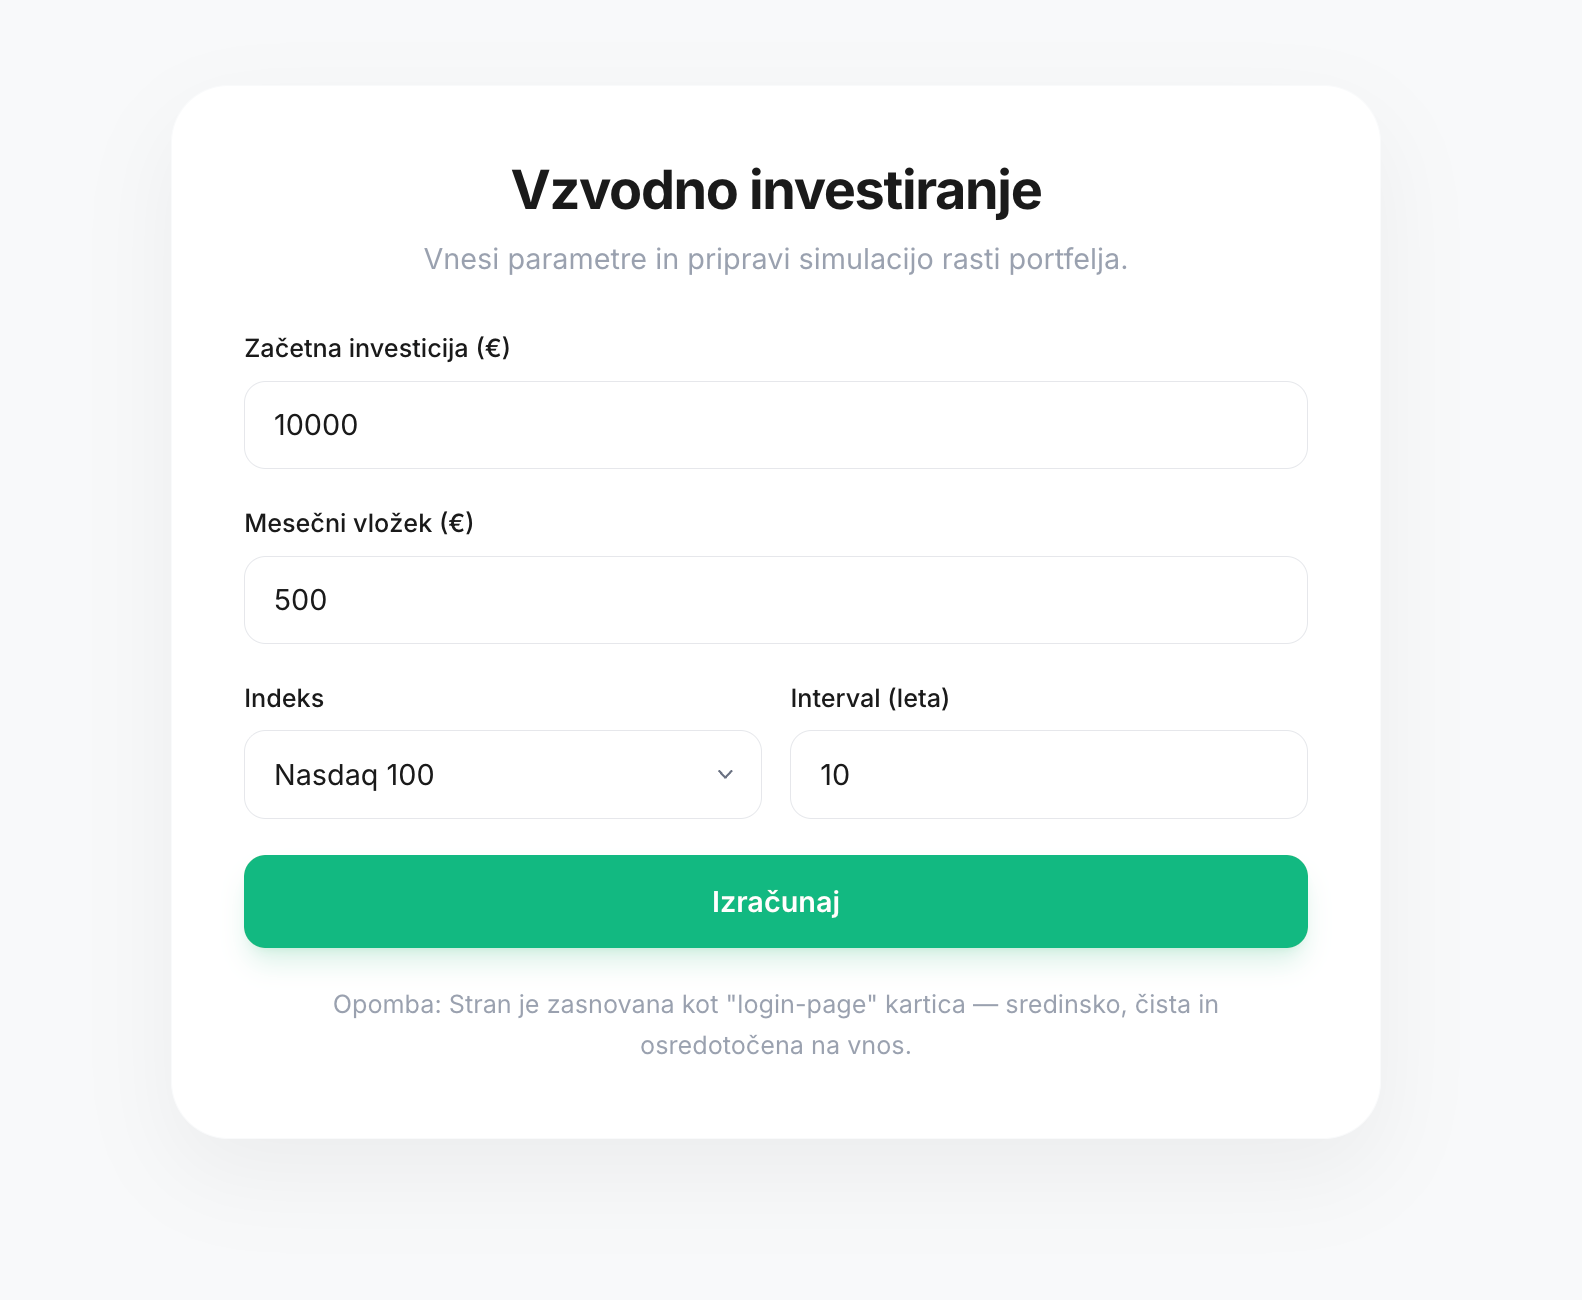
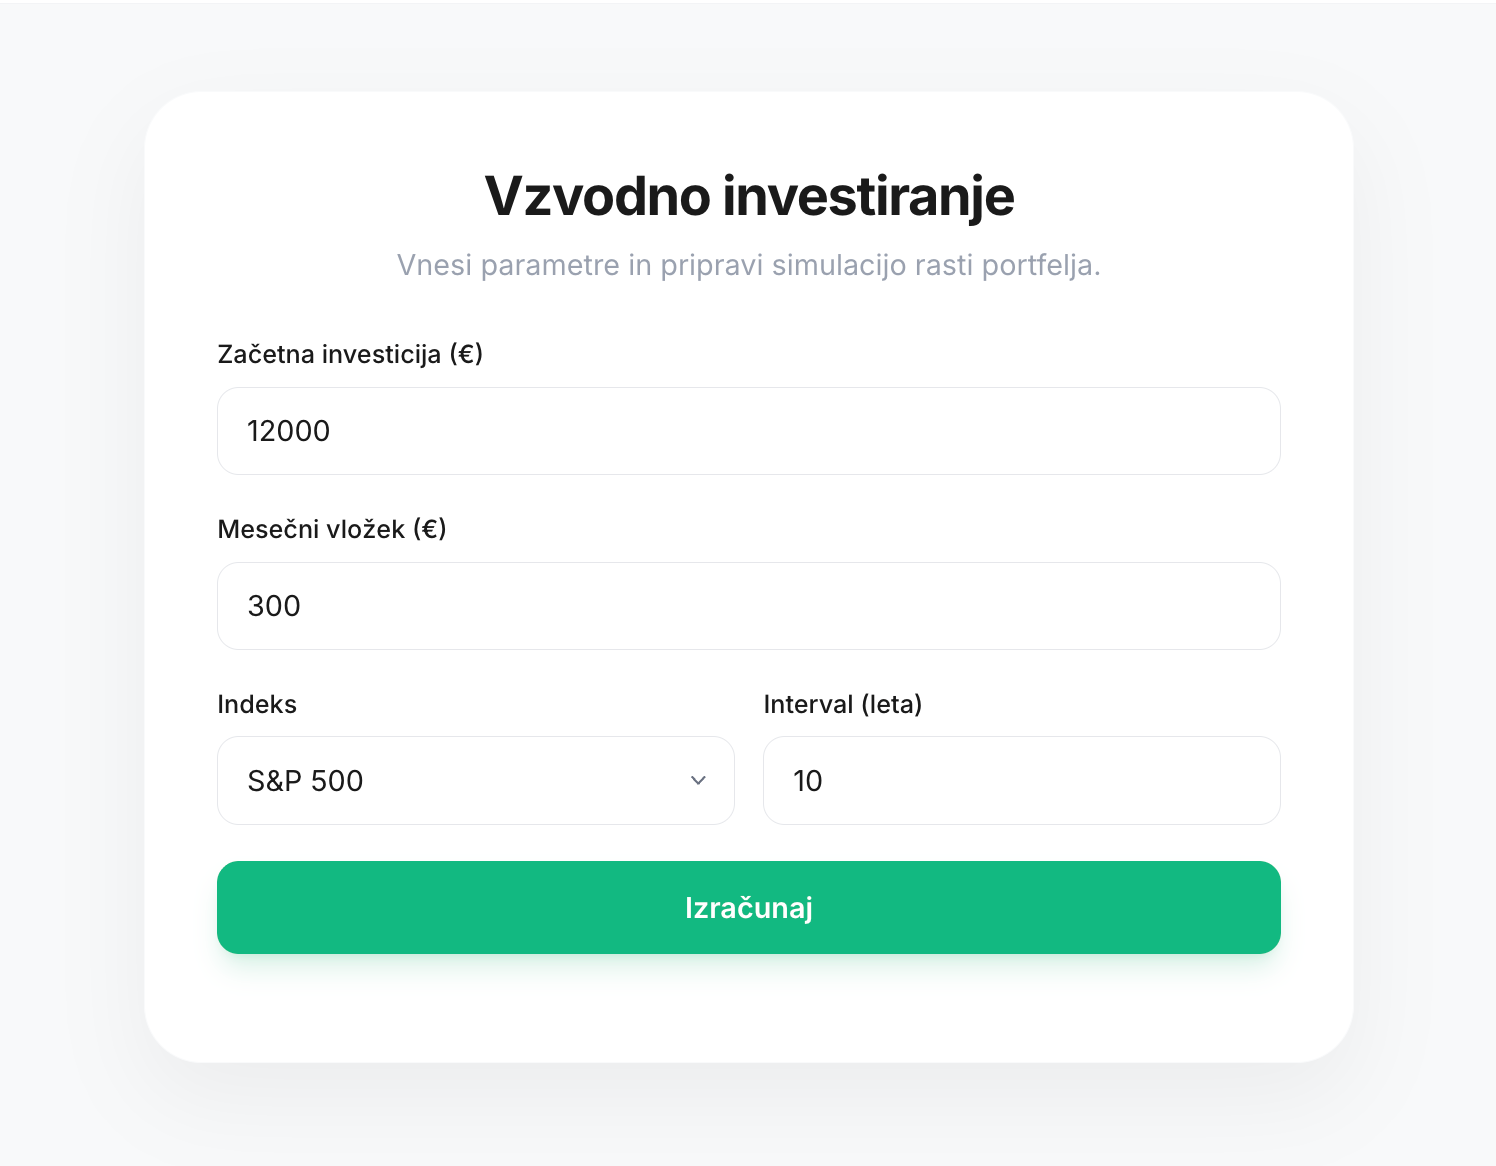
readme posodobitve

diff --git a/README.md b/README.md
@@ -10,7 +10,7 @@ Izbereš **S&P 500, Nasdaq 100 ali Nasdaq Composite** in nastaviš svoje vložke
 
 Rezultati vključujejo primerjavo končnih vrednosti, deleže zmag posameznih strategij in interaktivne grafe razvoja naložbe.
 
-Model upošteva **dividende, funding, upravljalske provizije in volatility decay**. Predpostavke in omejitve zgodovinske simulacije so opisane v [metodologiji](docs/methodology.md).
+Model upošteva **dividende, funding, upravljalske provizije in volatility decay**. 
 
 ![Primer zgodovinske simulacije strategij 1x, 2x in 3x](docs/assets/graf.png)
 
